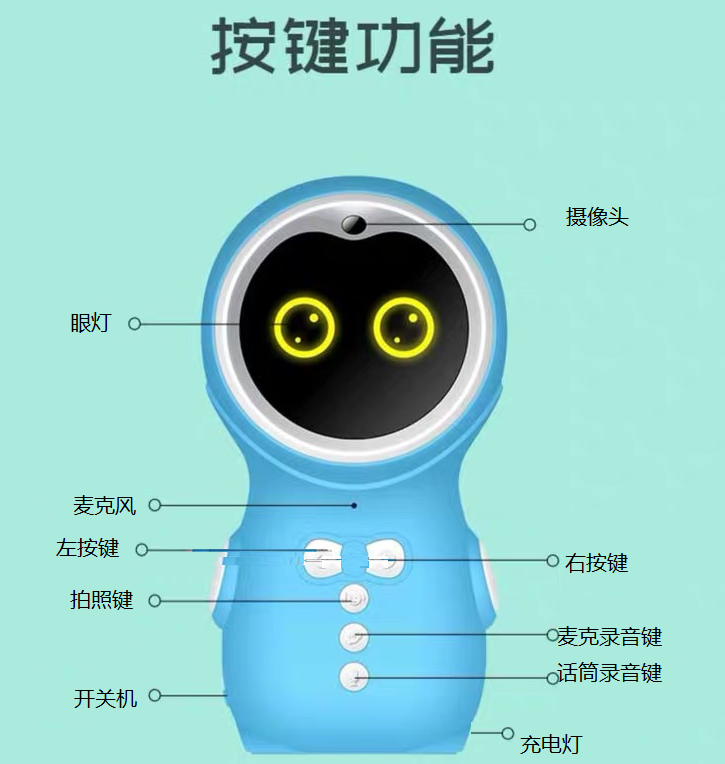
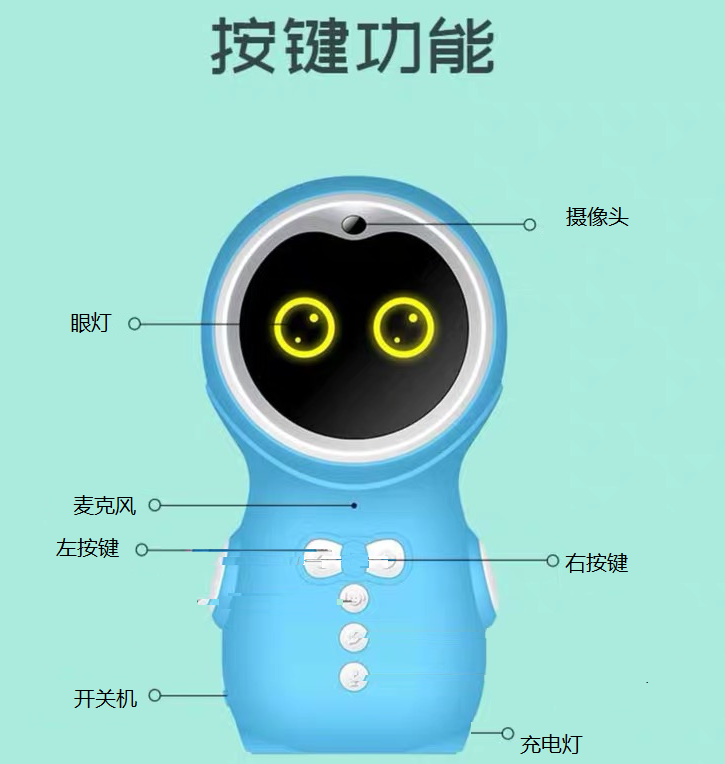
Dept3: update the Rockchip_RK2206_Developer_Guide_PCBA_CN to v1.1.0

diff --git a/Dept3/RTOS/FreeRTOS/Develop/Rockchip_RK2206_Developer_Guide_PCBA_CN/Rockchip_RK2206_Developer_Guide_PCBA_CN.md b/Dept3/RTOS/FreeRTOS/Develop/Rockchip_RK2206_Developer_Guide_PCBA_CN/Rockchip_RK2206_Developer_Guide_PCBA_CN.md
@@ -2,9 +2,9 @@
 
 文件标识：RK-KF-YF-303
 
-发布版本：1.0.0
+发布版本：1.0.1
 
-日期：2019.11
+日期：2019.12
 
 文件密级：内部资料
 
@@ -66,6 +66,7 @@ Fuzhou Rockchip Electronics Co., Ltd.
 | **日期**   | **版本** | **作者** | **修改说明**           |
 | ---------- | -------- | --------  | ---------------------- |
 | 2019-11-25 | V1.0.0   | conway    | 初始版本               |
+| 2019-12-28 | V1.0.1 | conway    | 更新按键功能和代码说明 |
 
 ## **目录**
 
@@ -73,27 +74,28 @@ Fuzhou Rockchip Electronics Co., Ltd.
 
 ## **1 工厂模式说明**
 
-### **1.1 按键功能图**
+### **1.1 按键功能**
 
-工厂模式下按键分布图：
+工厂测试模式除开机自动运行的测试程序，其他测试程序需按键触发
+
+[!注]： 不同硬件，按键对应的功能可能不同，工厂测试是根据按键触发的功能来执行的
+举例：无论任何按键，只要他触发了软件上的音量加功能，工厂测试下即拍照功能
+
+以下图故事机为例：
 
 <img src="resources/factory.png" alt="factory" style="zoom:50%;" />
 
-按键及功能：
+| **按键**           | **功能**     | **按键说明**        |
+| ----------         |  ----------             |----------           |
+| 同时按下左按键和右按键再开机 | 启动工厂测试模式 | 触发配网按键键 |
+| 长按左按键         | “滴”一声，开始录音，眼灯闪烁，结束停止闪烁 | 触发上一首歌功能|
+| 长按右按键         | “滴”一声，播放录音                         | 触发下一首歌功能|
+| 短按右按键         | "滴一声"，拍照后，播放“摄像头测试成功”或”摄像头测试失败“ | 触发音量加功能 |
+| 其他功能定义按键   | “滴”一声 | 触发对应的功能 |
 
-| **按键**            | **功能**                                 |
-| ----------          | --------                                  |
-| 左按键 和右按键     |    同时按下不动，再开机，进入工厂模式     |
-| 左按键              |    短按“滴”一声                           |
-| 右按键              |    短按“滴”一声                           |
-| 拍照键              |    短按“滴”一声，拍照完毕再“滴”一声       |
-| 麦克录音键          |    长按录音，“滴”一声，眼灯闪烁。短按播放 |
-| 话筒录音键          |    长按录音，“滴”一声，眼灯闪烁。短按播放 |
-
-<div style="page-break-after: always;"></div>
 ### **1.2 进入工厂模式**
 
-同时按下左右按键不动，紧接开机。
+同时按下左按键和右按键(此动作为配网功能)，再开机。等待提示音“进入工厂测试模式”
 
 ### **1.3 代码和编译说明**
 
@@ -105,8 +107,7 @@ src/components/factory_test
 
 #### **1.3.2 编译固件**
 
-工厂测试模式需在编译前配置开启，厂测和正常应用是同一固件。
-烧录固件后，同时按下左右键不动再开机进入工厂测试模式，否则启动正常应用。
+工厂测试模式需在编译前配置开启，厂测和正常应用是同一固件。烧录固件后，同时按下左右键不动再开机进入工厂测试模式，否则启动正常应用
 
 ```bash
 cd app/story_robot/gcc/
@@ -141,46 +142,66 @@ make build -j32                                                   #编译
 
 ### **1.5 测试流程**
 
-建议工厂测试按以下流程:
+以1.1中例图里故事机为例，建议工厂测试按以下流程:
 
-1. 同时按左右按键，再开机，等待提示音“进入工厂测试模式”
+1. 按住左右按键再开机，等待提示音“进入工厂测试模式”
 2. 自动测试，播放“TF卡测试成功”，或“TF卡测试失败”
 3. 自动测试，播放“Wi-Fi测试成功”，或“Wi-Fi测试失败”
 4. 开机眼灯亮，充电灯一直闪烁
 5. 三个功能按键按顺序测试：
-    - 短按拍照键拍照，“滴”一声，拍照完毕再“滴”一声表示结束
-    - 长按麦克录音键，“滴”一声，检查眼灯是否正常闪烁，表示在录音，录音完毕闪烁停止，短按该按键，播放录音
-    - 长按话筒录音键，“滴”一声，检查眼灯是否正常闪烁，表示在录音，录音完毕闪烁停止，短按该按键，播放录音
-6. 其他按键为非功能按键：短按，有提示音“滴”一声表示按键正常
+    - 短按右按键，拍照，“滴”一声，等待拍照完毕，播放“摄像头测试成功”，或“摄像头测试失败”
+    - 长按左按键，“滴”一声，检查眼灯是否正常闪烁，表示在录音，录音完毕闪烁停止
+    - 长按右按键，“滴”一声，播放刚才的录音
+6. 其他按键短按，有提示音“滴”一声表示按键正常
 
 ### **1.6 测试时间**
 
-完整工厂测试耗时1分钟左右。
+完整工厂测试耗时1分钟左右
 
 | **测试单项**                      | **单项耗时** |
 | ----------                        | --------     |
 | 开机至进入工厂测试模式            |    7s        |
 | TF卡                              |    3s        |
 | Wi-Fi                             |    3s        |
-| 摄像头                            |    3s        |
+| 摄像头                            |    8s        |
 | 机身麦克风录音并播放              |    10s       |
-| 话筒录音并播放                    |    10s       |
 | 按键                              |    6s        |
-| 眼灯充电灯观察                    |    3s        |
+| 眼灯充电灯观察                    |    4s        |
 
 ## **2 各个测试模块的相关说明以及配置**
 
-### **2.1 工厂测试函数入口**
+[!注]：相关代码说明请以SDK最新代码为准
 
-介绍开机启动的函数入口，及修改进入工厂测试的按键。
+### **2.1 工厂测试函数入口和按键定义**
+
+开机启动的函数入口，修改进入工厂测试按键说明
 
 ```C
 app/story_robot/src/main_sever/MainSever.c
 COMMON API void MainTask_Enter(void *pvParameters);    //判断启动工厂测试模式还是正常工作模式
 MainTask_StartFactoryTest();                           //工厂测试函数入口
 MainTask_StartApp();                                   //正常应用入口
-if ((MainTaskAskQueue.event_type == MAINTASK_KEY_EVENT) && (MainTaskAskQueue.event == KEY_VAL_FFD_PRESS))
-                                                       //此处修改进入工厂测试的按键
+app/story_robot/src/player/play_menu_task.h
+#define KEY_FUN_FACTORY_TEST_START    KEY_FUN_AIRKISS
+#define KEY_FUN_FACTORY_TEST_ENTER    (KEY_FUN_AIRKISS|KEY_STATUS_PRESS)
+进入工厂测试的按键，由这两个宏决定，这里表示按住配网键，再开机
+```
+
+播放器按键键值和功能定义：
+
+```
+/app/story_robot/src/player/play_menu_task.h
+#define KEY_FUN_VOLUME_DOWN     KEY_VAL_FFD_SHORT_UP
+#define KEY_FUN_VOLUME_UP       KEY_VAL_UP_SHORT_UP
+#define KEY_FUN_PREV_MUSIC      KEY_VAL_ESC_SHORT_UP
+#define KEY_FUN_NEXT_MUSIC      KEY_VAL_DOWN_SHORT_UP
+#define KEY_FUN_PLAY_PAUSE      KEY_VAL_PLAY_SHORT_UP
+#define KEY_FUN_AI_START        KEY_VAL_MENU_SHORT_UP
+#define KEY_FUN_PICTURE_BOOK_S  KEY_VAL_VOL_PRESS_START
+#define KEY_FUN_CHANGE          KEY_VAL_VOL_SHORT_UP
+#define KEY_FUN_AIRKISS         KEY_VAL_FFW_PRESS_START
+#define KEY_FUN_FACTORY_TEST_START    KEY_FUN_AIRKISS
+#define KEY_FUN_FACTORY_TEST_ENTER    (KEY_FUN_AIRKISS|KEY_STATUS_PRESS)
 ```
 
 ### **2.2 增加厂测按键功能**
@@ -202,8 +223,8 @@ make menuconfig 配置路径：(top menu) → Components Config → Factory Test
 
 ### **2.4 录音播放**
 
-- 录音：包括机身麦克风录音和话筒录音。长按某个录音键，录音。眼灯闪烁，录音时间可配置n秒，可在n秒内提前短按录音键，结束录音并播放。
-- 播放：播放录音，可多次播放。
+- 录音：录音时，眼灯闪烁，录音时间可配置n秒，可在n秒内提前播放，会结束录音并播放
+- 播放：可多次播放
 
 #### **2.4.1 编译配置**
 
@@ -223,13 +244,14 @@ void record_play(void);
 
 ### **2.5 camera测试**
 
-camera测试照片保存在TF卡，格式为jpeg。照片默认只保留最新一张，可设置为保存多张。
+camera测试照片保存在TF卡，格式为jpeg。照片默认只保留最新一张，可设置为保存多张
+camera测试成功,提示音“摄像头测试成功”;测试失败，提示音“摄像头测试失败”
 
 #### **2.5.1 编译配置**
 
 ```
 make menuconfig 配置路径：(top menu) → Components Config → Factory Test → Enable camera
-子菜单camera save multiple photos in TF card选上，则照片保留多张。
+子菜单camera save multiple photos in TF card选上，则照片保留多张
 ```
 
 #### **2.5.2 相关代码**
@@ -241,7 +263,7 @@ void camera_test();
 
 ### **2.6 TF卡测试**
 
-开机自动测试。测试成功，提示音“TF卡测试成功”;测试失败,提示音“TF卡测试失败”。
+开机自动测试。测试成功，提示音“TF卡测试成功”;测试失败,提示音“TF卡测试失败”
 
 #### **2.6.1 编译配置**
 
@@ -258,7 +280,7 @@ void sdcard_test(void);
 
 ### **2.7 Wi-Fi测试**
 
-开机自动测试。测试成功,提示音“Wi-Fi测试成功”;测试失败，提示音“Wi-Fi测试失败”。
+开机自动测试。测试成功,提示音“Wi-Fi测试成功”;测试失败，提示音“Wi-Fi测试失败”
 
 #### **2.7.1 编译配置**
 
@@ -293,10 +315,10 @@ LedFlashingOn(BOARD_LED_STORY_CHARGE_ID);   //LED闪烁线程
 src/bsp/RK2206/board/rk2206_story/board.c
 struct led led_config[] =                   //LED配置数组
 {
-    {BOARD_LED_STORY_EYE_ID, BOARD_LED_STORY_EYE_PIN, NULL, GPIO_LOW},         //LED_CONTROL
-    {BOARD_LED_STORY_CHARGE_ID, BOARD_LED_STORY_CHARGE_PIN, NULL, GPIO_HIGH},  //Charge_LED
-                                            //数组元素代表了 LED设备id、引脚、电平控制
-                                            //新增LED控制，在此增加数组元素
+    {BOARD_LED_STORY_EYE_ID, BOARD_LED_STORY_EYE_PIN, NULL, GPIO_LOW, 0, 0},
+    {BOARD_LED_STORY_CHARGE_ID, BOARD_LED_STORY_CHARGE_PIN, NULL, GPIO_HIGH, 0, 0},
+//数组元素代表了： LED设备id、引脚、指针NULL固定、灯灭的电平、数字0固定、数字0固定
+//新增LED控制，在此增加数组元素
 };
 
 src/bsp/RK2206/board/rk2206_story/board.h
